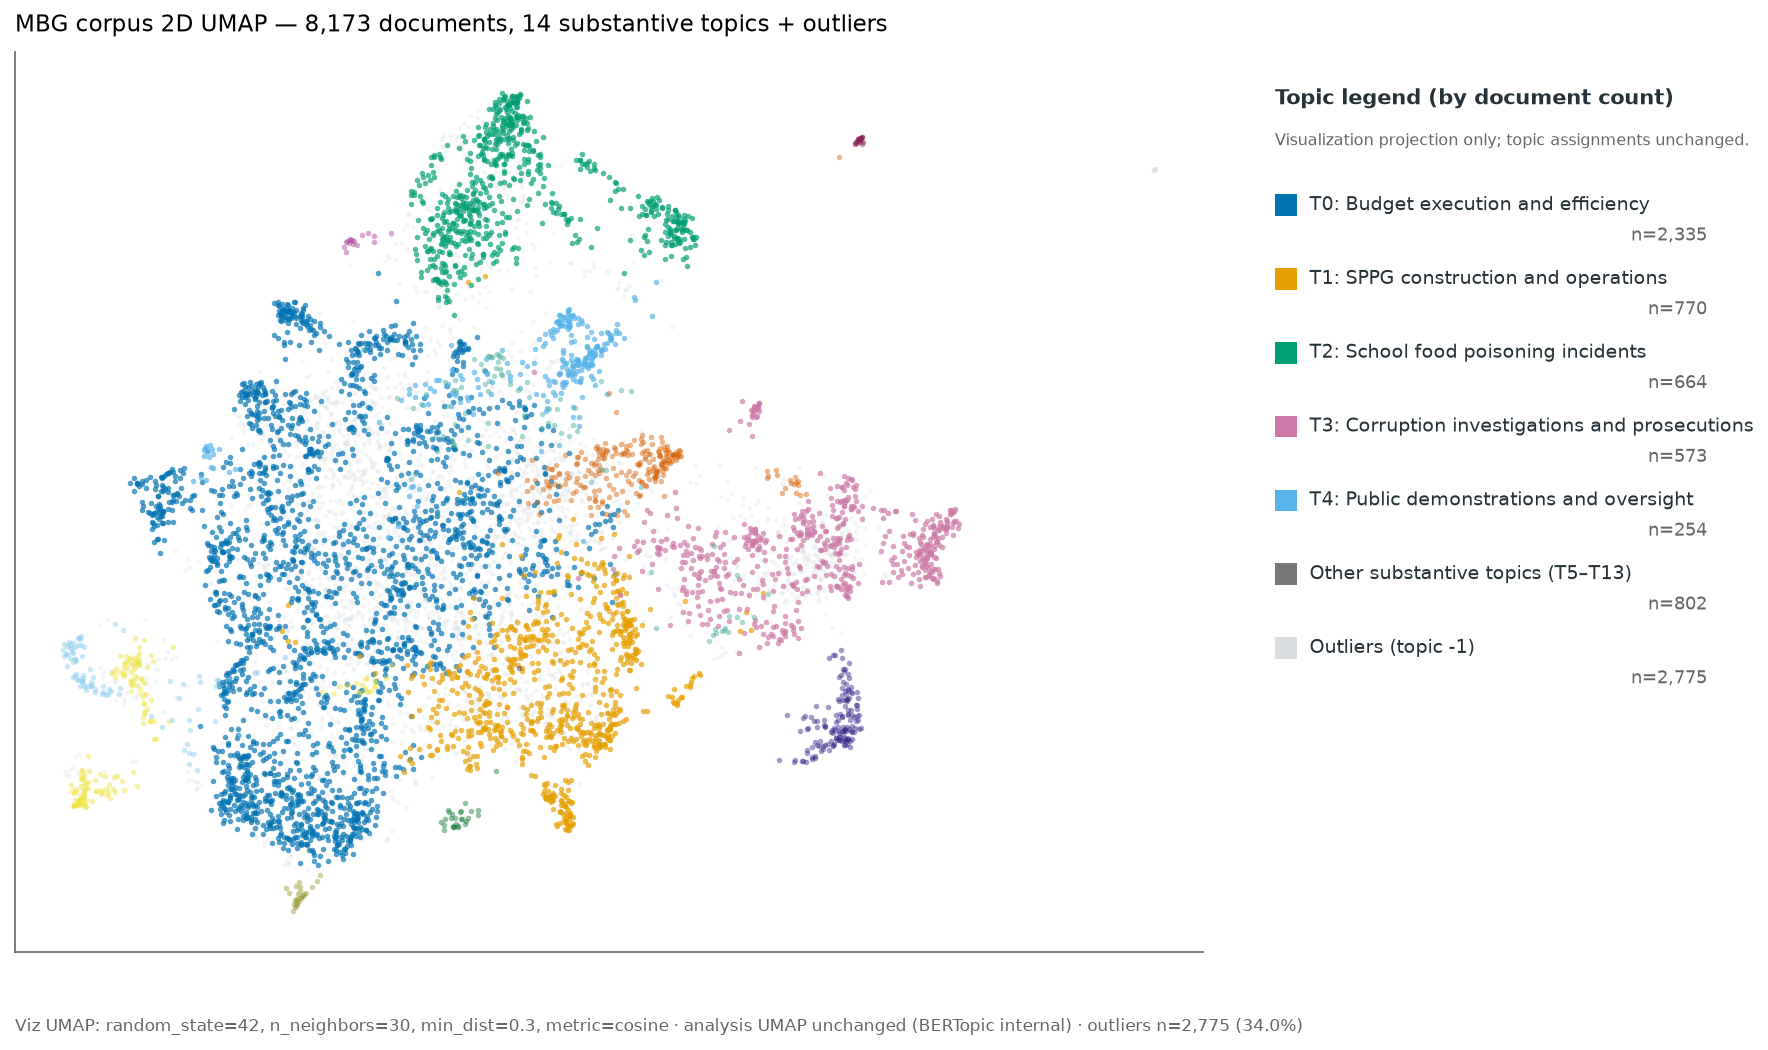
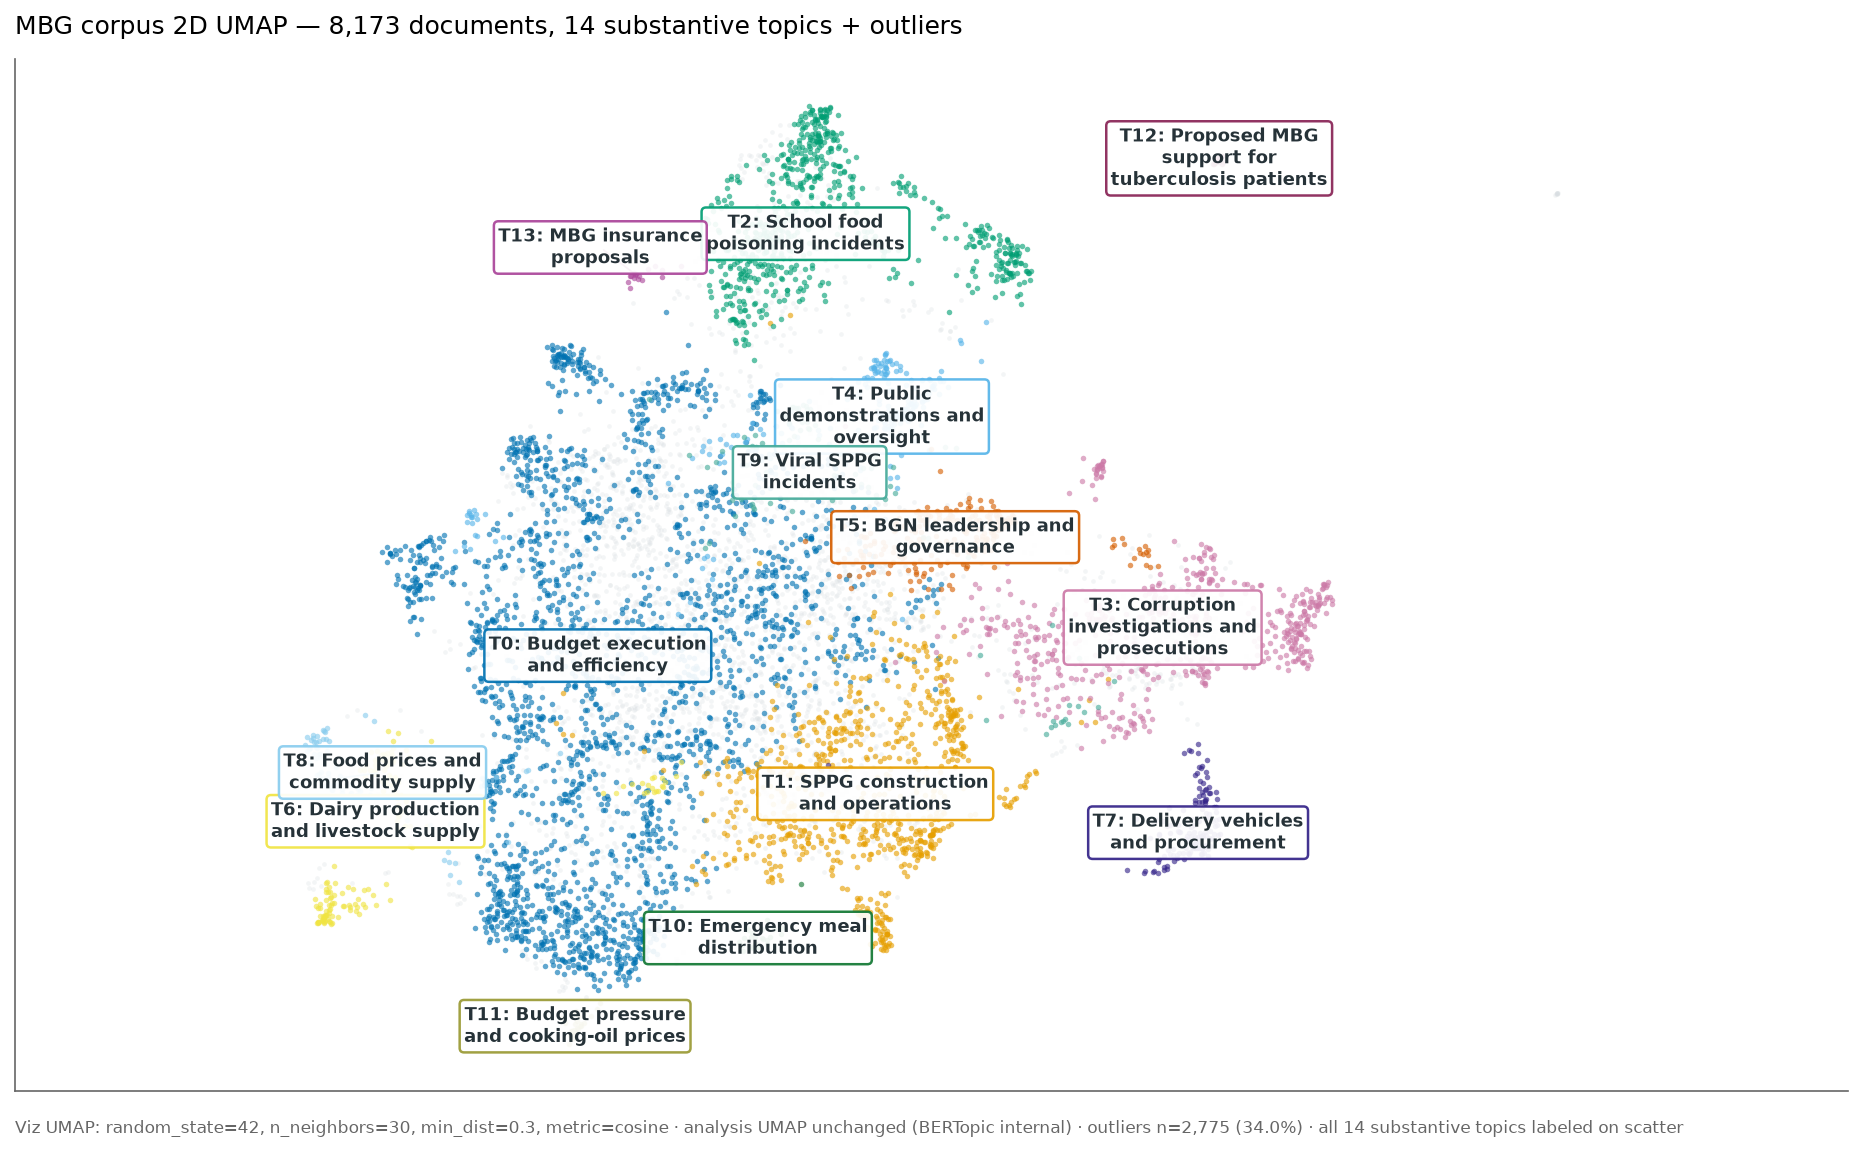
docs(mbg): label UMAP topic clusters
Replace right-side color legend with on-cluster direct labels for T0-T13 in docs/assets/mbg/umap_scatter.png. Mirrors the same label set in docs/use-case.md.

diff --git a/docs/use-case.md b/docs/use-case.md
@@ -117,11 +117,11 @@ The substantive topics cover SPPG operations, budgets, food safety, corruption,
 public oversight, supply chains, and program governance; the outlier class
 captures documents that do not cluster cleanly with any dominant theme.
 
-![Two-dimensional UMAP scatter of the 8,173 cleaned documents colored by topic; the five largest substantive topics are listed in an external legend and unassigned outliers are shown in grey](assets/mbg/umap_scatter.png)
+![Two-dimensional UMAP scatter of the 8,173 cleaned documents colored by topic; all 14 substantive topics are labeled directly over their cluster regions and unassigned outliers are shown in grey](assets/mbg/umap_scatter.png)
 
 A two-dimensional UMAP projection of the cleaned documents, colored by
-topic. Each point is one document. The five largest substantive topics are
-listed in an external legend on the right of the figure, while grey points
+topic. Each point is one document. All 14 substantive topics are labeled
+directly over their cluster regions within the scatter, while grey points
 show documents left unassigned by the clustering model. Separation and
 overlap are diagnostic patterns, not proof that the generated labels are
 definitive categories.
